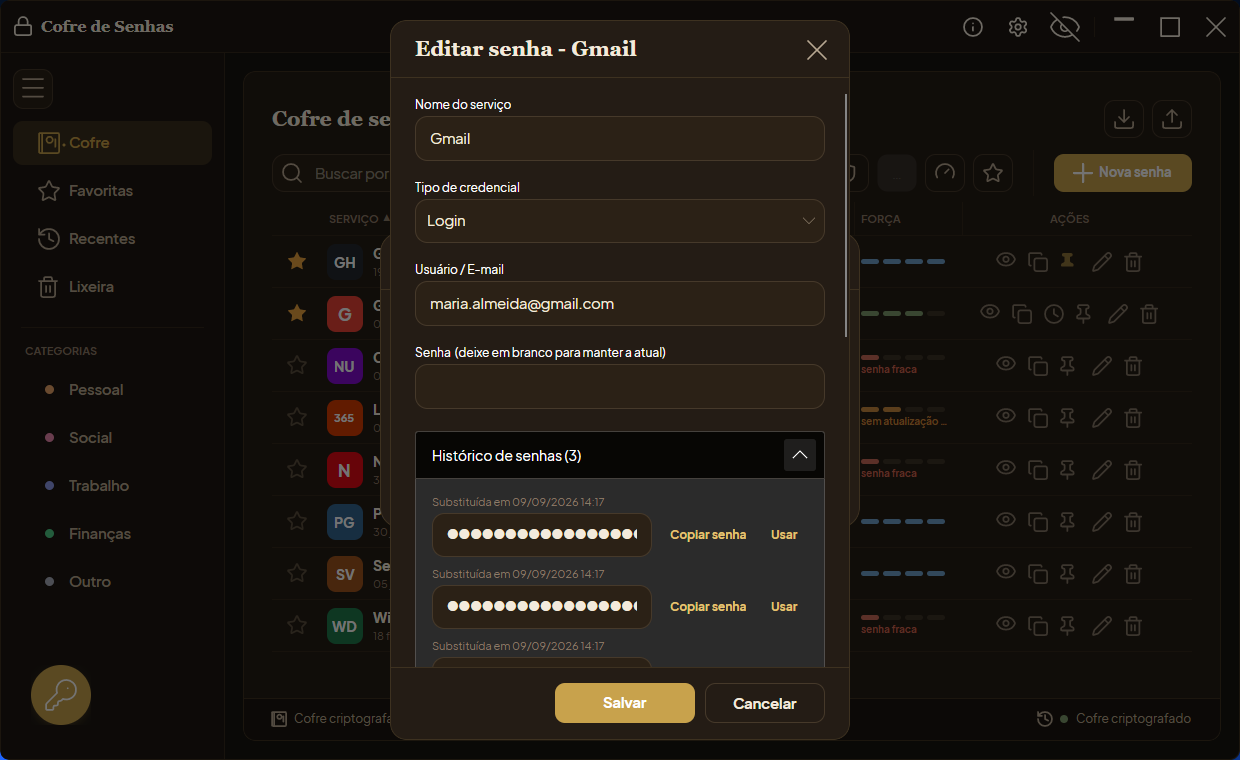
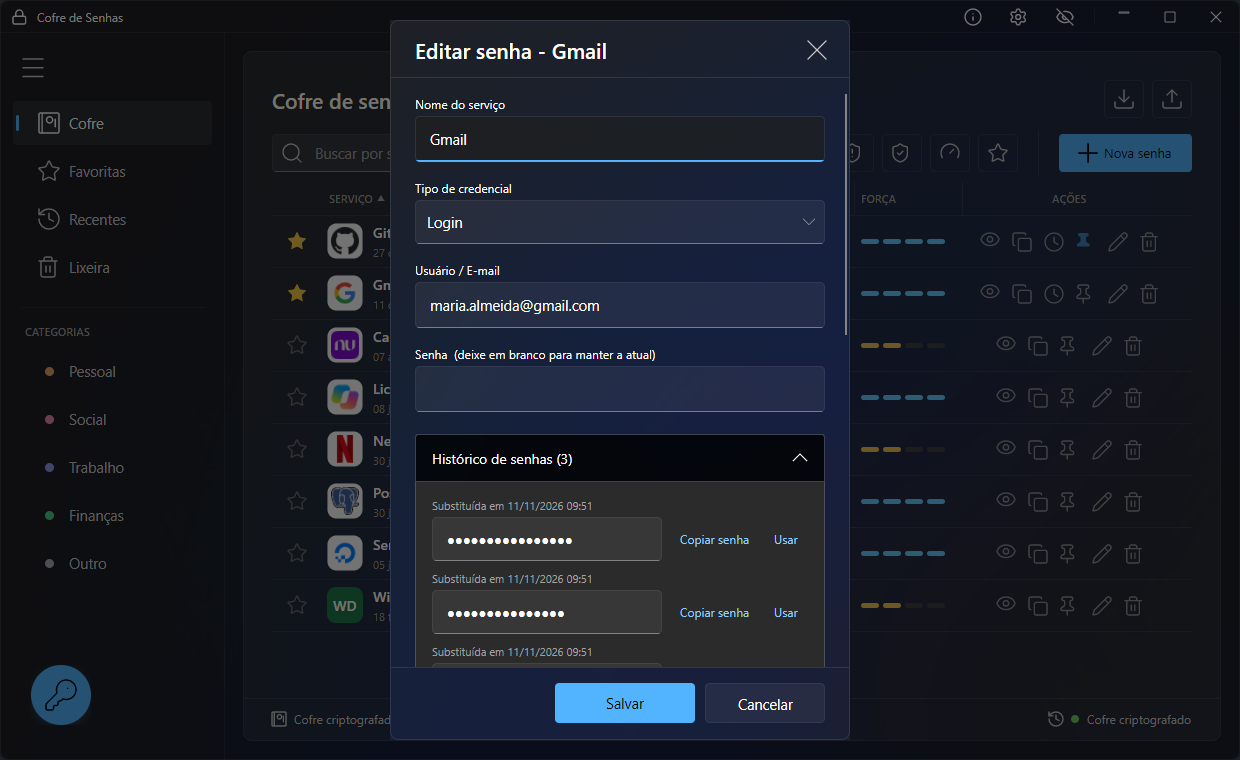
Atualiza o README com a interface nova e capturas de tela regeneradas
O README (português e inglês) ganha uma seção sobre a interface
redesenhada e uma galeria com gerador, edição com histórico, relatório
de segurança, Configurações e tela de desbloqueio.

As seis capturas em docs/ foram regeneradas a partir de um cofre de
demonstração semeado (oito entradas fictícias, ícones dos serviços
ativados, TOTP e histórico numa delas, senhas fracas e repetidas para o
relatório). Mesmos nomes de arquivo, então FUNCIONALIDADES.md e
INSTALACAO.md também passam a mostrar a interface atual.

diff --git a/README.md b/README.md
@@ -16,7 +16,38 @@ Distribuído sob a licença [MIT](LICENSE) — uso, estudo, modificação e
 redistribuição livres para qualquer finalidade, desde que o aviso de copyright
 e a licença acompanhem as cópias.
 
-![Cofre de Senhas: barra lateral, lista de credenciais e rodapé](docs/captura-cofre.png)
+![Cofre de Senhas: lista de credenciais com os ícones dos serviços, barra lateral e rodapé](docs/captura-cofre.png)
+
+## Interface
+
+A interface foi redesenhada para ser mais leve e direta. As superfícies são
+translúcidas e deixam o fundo da área de trabalho aparecer de leve; os tons
+neutros não competem com o que importa, que são as suas credenciais. A
+tipografia é limpa, os ícones têm traço fino e os cantos e espaçamentos
+seguem um mesmo ritmo em todas as telas.
+
+O contexto ficou mais fácil de ler de relance: cada credencial pode mostrar o
+ícone do próprio serviço (opcional, baixado só se você ativar), a força da
+senha aparece em barras coloridas na lista, e o item ativo da navegação é
+marcado por uma barra discreta na cor de destaque. Os campos sublinham em
+destaque quando recebem o foco e as janelas secundárias mantêm o mesmo visual
+da principal.
+
+Tema claro e escuro, alto contraste, paletas para daltonismo e escala de
+texto continuam disponíveis em **Configurações > Aparência** e
+**Acessibilidade**.
+
+| | |
+|:---:|:---:|
+| ![Gerador de senha aberto sobre a lista, com a senha gerada e o indicador de força](docs/gerador.png) | ![Edição de credencial com o histórico de senhas aberto](docs/editar-credencial.png) |
+| Gerador de senhas integrado | Edição com histórico de senhas |
+| ![Relatório de segurança com pontuação do cofre e contagem por problema](docs/relatorio-seguranca.png) | ![Configurações na aba Aparência](docs/configuracoes.png) |
+| Relatório de segurança | Configurações |
+
+<p align="center">
+  <img src="docs/tela-login.png" alt="Tela de desbloqueio com o gerador ao lado" width="560"><br>
+  <sub>Tela de desbloqueio, com o gerador sempre à mão</sub>
+</p>
 
 ## Baixe e instale
 

diff --git a/README.en.md b/README.en.md
@@ -20,7 +20,39 @@ are kept with the copies.
 > maintainer's native language. This README is translated and kept in sync
 > by hand; pages that are Portuguese-only are marked as such.
 
-![Cofre de Senhas: sidebar, credential list and footer](docs/captura-cofre.png)
+![Cofre de Senhas: credential list with service icons, sidebar and footer](docs/captura-cofre.png)
+
+## Interface
+
+The interface has been redesigned to feel lighter and more direct. Surfaces
+are translucent and let the desktop background show through slightly; neutral
+tones stay out of the way of what matters, your credentials. Typography is
+clean, icons use thin strokes, and corners and spacing follow the same rhythm
+on every screen.
+
+Context is easier to read at a glance: each credential can show its service's
+own icon (optional, downloaded only if you turn it on), password strength
+shows up as colored bars in the list, and the active navigation item is
+marked by a subtle bar in the accent color. Fields get an accent underline
+when focused, and secondary windows keep the same look as the main one.
+
+Light and dark themes, high contrast, color-blind palettes and text scaling
+are still available under **Settings > Appearance** and **Accessibility**.
+
+| | |
+|:---:|:---:|
+| ![Password generator open over the list, with the generated password and strength meter](docs/gerador.png) | ![Editing a credential with the password history expanded](docs/editar-credencial.png) |
+| Built-in password generator | Editing with password history |
+| ![Security report with the vault score and a count per issue](docs/relatorio-seguranca.png) | ![Settings on the Appearance tab](docs/configuracoes.png) |
+| Security report | Settings |
+
+<p align="center">
+  <img src="docs/tela-login.png" alt="Unlock screen with the generator alongside" width="560"><br>
+  <sub>Unlock screen, with the generator always at hand</sub>
+</p>
+
+> Screenshots show the app in Portuguese; English, Spanish, French, German and
+> Italian are available under Settings.
 
 ## Download and install
 
